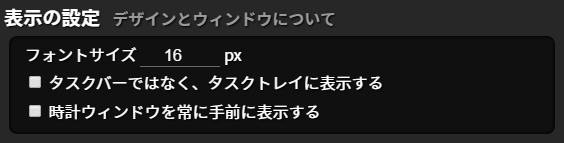
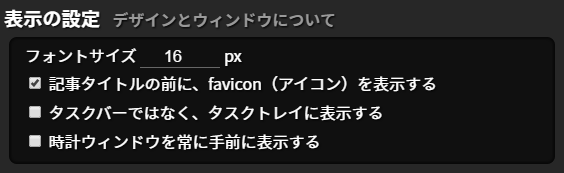
v0.0.2-pre

diff --git a/app/js/index.js b/app/js/index.js
@@ -68,17 +68,25 @@ function configInit () {
 	if (isNaN(localStorage.fontsize         )) {localStorage.fontsize          = 16};
 	FONTSIZE = localStorage.fontsize;
 
+	// faviconを表示するか
+	if (localStorage.show_favicon == "false") {
+		SHOW_FAVICON = false;
+	} else {
+		SHOW_FAVICON = true;
+		localStorage.show_favicon = "true";
+	}
+
 	// 前回時計が表示されていれば、表示する
-	if (localStorage.clock_show) {
+	if (localStorage.clock_show == "true") {
 		toggleClockWindow();
 	}
 
 	// アイテム表示履歴
 	try {
-		link_history = JSON.parse(localStorage.linkhistory);
+		item_history = JSON.parse(localStorage.itemhistory);
 	} catch ( e ) {
-		link_history = [];
-		localStorage.linkhistory = JSON.stringify(link_history);
+		item_history = [];
+		localStorage.itemhistory = JSON.stringify(item_history);
 	}
 
 	feed_cur = Math.floor(Math.random() * FEED_LIST.length);
@@ -171,7 +179,7 @@ function windowInit () {
 		nextFeed();
 	});
 	$("#refresh_btn").click( function () {
-		link_history = [];
+		item_history = [];
 	});
 
 
@@ -224,7 +232,7 @@ function quit () {
 	localStorage.window_y = win.y;
 	localStorage.window_width = win.width;
 	localStorage.window_height = win.height;
-	localStorage.linkhistory = JSON.stringify(link_history);
+	localStorage.itemhistory = JSON.stringify(item_history);
 	gui.App.closeAllWindows();
 	gui.App.quit();
 }
@@ -237,7 +245,7 @@ function enqueue ( feed_id ) {
 	limit_date = limit_date.setDate(limit_date.getDate() - LIMIT_DAYS);
 
 	// 1024を超えた履歴を削除
-	link_history.length = 1024;
+	item_history.length = 1024;
 
 	// RSSフィードをgetする
 	var feedparser = new FeedParser();
@@ -274,7 +282,7 @@ function enqueue ( feed_id ) {
 				item != null &&
 
 				// URLが表示履歴に存在しない
-				link_history.indexOf(item.link) == -1 &&
+				item_history.indexOf(item.meta.link + item.guid) == -1 &&
 				
 				// 日付が存在しないか、期限以内
 				(item.date == null || item.date > limit_date) &&
@@ -359,13 +367,14 @@ function writeMessage ( message ) {
 }
 
 function writeItem (item) {
+	console.log (item);
+
 	var title = sanitize(item.title);
-	var link = sanitize(item.link);
 
 	if (item.permalink != null) {
-		var url = sanitize(item.permalink);
+		var url = item.permalink;
 	} else {
-		var url = link;
+		var url = item.link;
 	}
 
 	// writeItem アイテム（記事）を表示する
@@ -375,7 +384,7 @@ function writeItem (item) {
 
 	var item_body = $("<div></div>", {
 		"class": "item-body feeditem",
-		"data-link": link,
+		"data-link": JSON.stringify(item.link),
 		on: {
 		  click: clickItem
 		}
@@ -388,16 +397,18 @@ function writeItem (item) {
 	});
 	item_body.append(item_title);
 
-	// faviconの追加
-	item_title.prepend($("<img />", {
-		"class": "favicon",
-		"src": "http://favicon.qfor.info/f/" + url
-	}));
-
+	// faviconの表示
+	if (SHOW_FAVICON) {
+		item_title.prepend($("<img />", {
+			"class": "favicon",
+			"src": "http://favicon.qfor.info/f/" + url
+		}));
+	}
+	
 	$("#timeline").prepend(item_elm);
-
-	// URLを履歴に追加
-	link_history.unshift(item.link);
+	
+	// 履歴に追加
+	item_history.unshift(item.meta.link + item.guid);
 
 	// 1024を超えたアイテムを削除
 	$(".item:gt(1024)").remove();
@@ -409,7 +420,7 @@ function clickItem ( e ) {
 		// 左クリック
 		case 1:
 			// アイテムがクリックされたら、外部ブラウザでリンクを開く
-			gui.Shell.openExternal( $(this).data("link") );
+			gui.Shell.openExternal( JSON.parse( $(this).data("link") ) );
 
 			// アイテムを表示済みにする
 			$(this).addClass("visited");
@@ -461,14 +472,16 @@ function toggleClockWindow () {
 			"show": false,
 			"width": 250,
 			"height": 70,
+			"max_width": 250,
+			"max_height": 70,
 			"show_in_taskbar": false,
 			"icon": gui.App.manifest.window.icon
 		});
 	} else {
-		localStorage.clock_show = false;
 		clock_window.close();
 	}
 	clock_window.on('closed', function() {
+		localStorage.clock_show = false;
 		clock_window = null;
 	});
 }

diff --git a/app/js/config.js b/app/js/config.js
@@ -77,7 +77,14 @@ function loadConfig() {
 	$("#FONTSIZE").val          (localStorage.fontsize);
 
 	try  {
+		$("#FAVICON").prop ("checked", JSON.parse(localStorage.show_favicon));
+	} catch ( e ) { }
+
+	try  {
 		$("#TASKTRAY").prop ("checked", JSON.parse(localStorage.window_tasktray));
+	} catch ( e ) { }
+
+	try  {
 		$("#CLOCK_TOP").prop("checked", JSON.parse(localStorage.clock_always_on_top));
 	} catch ( e ) { }
 
@@ -101,6 +108,7 @@ function saveConfig () {
 		localStorage.fontsize          = $("#FONTSIZE").val();
 	}
 
+	localStorage.show_favicon        = $("#FAVICON").prop("checked");
 	localStorage.window_tasktray     = $("#TASKTRAY").prop("checked");
 	localStorage.clock_always_on_top = $("#CLOCK_TOP").prop("checked");
 

diff --git a/app/config.html b/app/config.html
@@ -49,6 +49,12 @@
 				</div>
 				<div class="config-item">
 					<label>
+						<input type="checkbox" id="FAVICON">
+						記事タイトルの前に、favicon（アイコン）を表示する
+					</label>
+				</div>
+				<div class="config-item">
+					<label>
 						<input type="checkbox" id="TASKTRAY">
 						タスクバーではなく、タスクトレイに表示する
 					</label>

diff --git a/app/js/clock.js b/app/js/clock.js
@@ -88,7 +88,7 @@ function analog (d) {
 }
 
 function digital (d) {
-	var AA_str = new Array("Mon", "Tue", "Wed", "Thu", "Fri", "Sat", "Sun");
+	var AA_str = new Array("Sun", "Mon", "Tue", "Wed", "Thu", "Fri", "Sat");
 	var YY = d.getFullYear().toString().slice(-2);
 	var MM = d.getMonth() + 1;
 	var DD = d.getDate();

diff --git a/docs/help.md b/docs/help.md
@@ -2,11 +2,11 @@
 - [導入手順](#導入手順)
 - [Q&A](#qa)
 - [メインウィンドウ](#メインウィンドウ)
-- [設定画面](#設定画面)
+- [設定ウィンドウ](#設定ウィンドウ)
 
 ## 導入手順
 [ダウンロード](../README.md#ダウンロード)からOSに合わせたパッケージをダウンロードして下さい。  
-なお、インストーラは用意していないので、任意の場所に展開してご利用下さい。
+インストーラ等は用意していないので、任意の場所に展開してご利用下さい。
 
 ### スタートアップへの登録（Windows）
 スタートアップに登録することで、Windowsの起動時にFeedLineを自動的に起動することが出来ます。
@@ -35,7 +35,7 @@
 ![メインウィンドウ 上部ボタン](./img/ss_main_top.png)  
 
 - 左から順に
-	- [設定画面](#設定画面)を開く
+	- [設定ウィンドウ](#設定ウィンドウ)を開く
 	- 最小化
 	- FeedLineを終了する
 
@@ -54,14 +54,14 @@
 
 メインウィンドウの[左下のボタン](#左下のボタン)から表示できます。
 
-## 設定画面
+## 設定ウィンドウ
 メインウィンドウの[右上のボタン](#右上のボタン)から表示できます。
 
-設定は、設定画面を閉じた際に保存されます。  
+設定は、設定ウィンドウを閉じた際に保存されます。  
 また、基本的に適用はFeedLineの再起動後です。
 
 ### 動作の設定
-![設定画面 動作の設定](./img/ss_config_1.png)
+![設定ウィンドウ 動作の設定](./img/ss_config_1.png)
 
 - 同じフィードをおおよそ＿分毎に一度取得する
 	- 同じフィードが指定した時間毎に取得されるよう、「フィードごとの表示時間」が調整されます
@@ -73,7 +73,7 @@
 	- ※ フィードに日時情報が無い場合、無条件に表示されます
 
 ### 表示の設定
-![設定画面 表示の設定](./img/ss_config_2.png)
+![設定ウィンドウ 表示の設定](./img/ss_config_2.png)
 
 - フォントサイズ＿px
 	- FeedLineの基礎となるフォントサイズを指定します
@@ -84,7 +84,7 @@
 	- 時計を、他のウィンドウよりも手前に固定します
 
 ### フィードの管理
-![設定画面 フィードの管理](./img/ss_config_3.png)
+![設定ウィンドウ フィードの管理](./img/ss_config_3.png)
 
 - RSSフィードのURL一覧
 	- 購読するRSSフィードのURLを指定します

diff --git a/docs/docs.md b/docs/docs.md
@@ -1,4 +1,16 @@
 # FeedLine 技術構成と実装
+- [技術構成](#技術構成)
+	- [NW.jsについて](#nwjsについて)
+- [ファイル構成](#ファイル構成)
+- [実装](#実装)
+	- [メインウィンドウ](#メインウィンドウ)
+		- [function](#function)
+		- [フィード関連の仕様](#フィード関連の仕様)
+		- [広告カット](#広告カット)
+	- [設定ウィンドウ](#設定ウィンドウ)
+	- [時計](#時計)
+- [デフォルトのRSSフィード](#デフォルトのrssフィード)
+
 ## 技術構成
 - NW.js v0.12.2-win-x64
 	- Webの技術でGUIアプリケーションが作成できるフレームワーク
@@ -19,6 +31,9 @@
 		- デジタル時計（Web読み込み）
 	- [Font Awesome](http://fortawesome.github.io/Font-Awesome/) 4.3.0
 		- アイコンセット（同梱）
+- API
+	- [Favicon Converter](http://favicon.qfor.info/)
+		- faviconの表示
 
 ### NW.jsについて
 Node.js と Webkit により構成される、GUIアプリケーションのフレームワークです。  

diff --git a/docs/nwjs.md b/docs/nwjs.md
@@ -1,13 +1,22 @@
 # FeedLine NW.jsに関するメモ
 NW.jsで開発を行う上でのTipsなど
 
+	* 作成中 *
+
 ## ウィンドウ関連処理
 
 ### フレームレスウィンドウ
 
-### 透過ウィンドウ
 
-#### 透過ウィンドウの作り方
+### 透過ウィンドウ
+<https://github.com/nwjs/nw.js/wiki/Frameless-window>
+
+透過ウィンドウはリサイズに対応しておらず、処理が不安定になるケースがあります。  
+可能な限り利用を避けた方が無難です。
+
+#### 透過ウィンドウの作成
+
+#### ウィンドウコントロールの作成
 
 
 ## デバッグ

diff --git a/README.md b/README.md
@@ -29,8 +29,6 @@
 	- [NW.jsに関するメモ](./docs/nwjs.md)
 
 ## ToDo
-- 不具合修正
-	- 時計のウィンドウサイズ上限の追加 / 最大化の阻止
 - 機能追加
 	- NGワード / NGドメインの設定
 	- メインウィンドウを「常に手前に表示」する切り替えボタン
